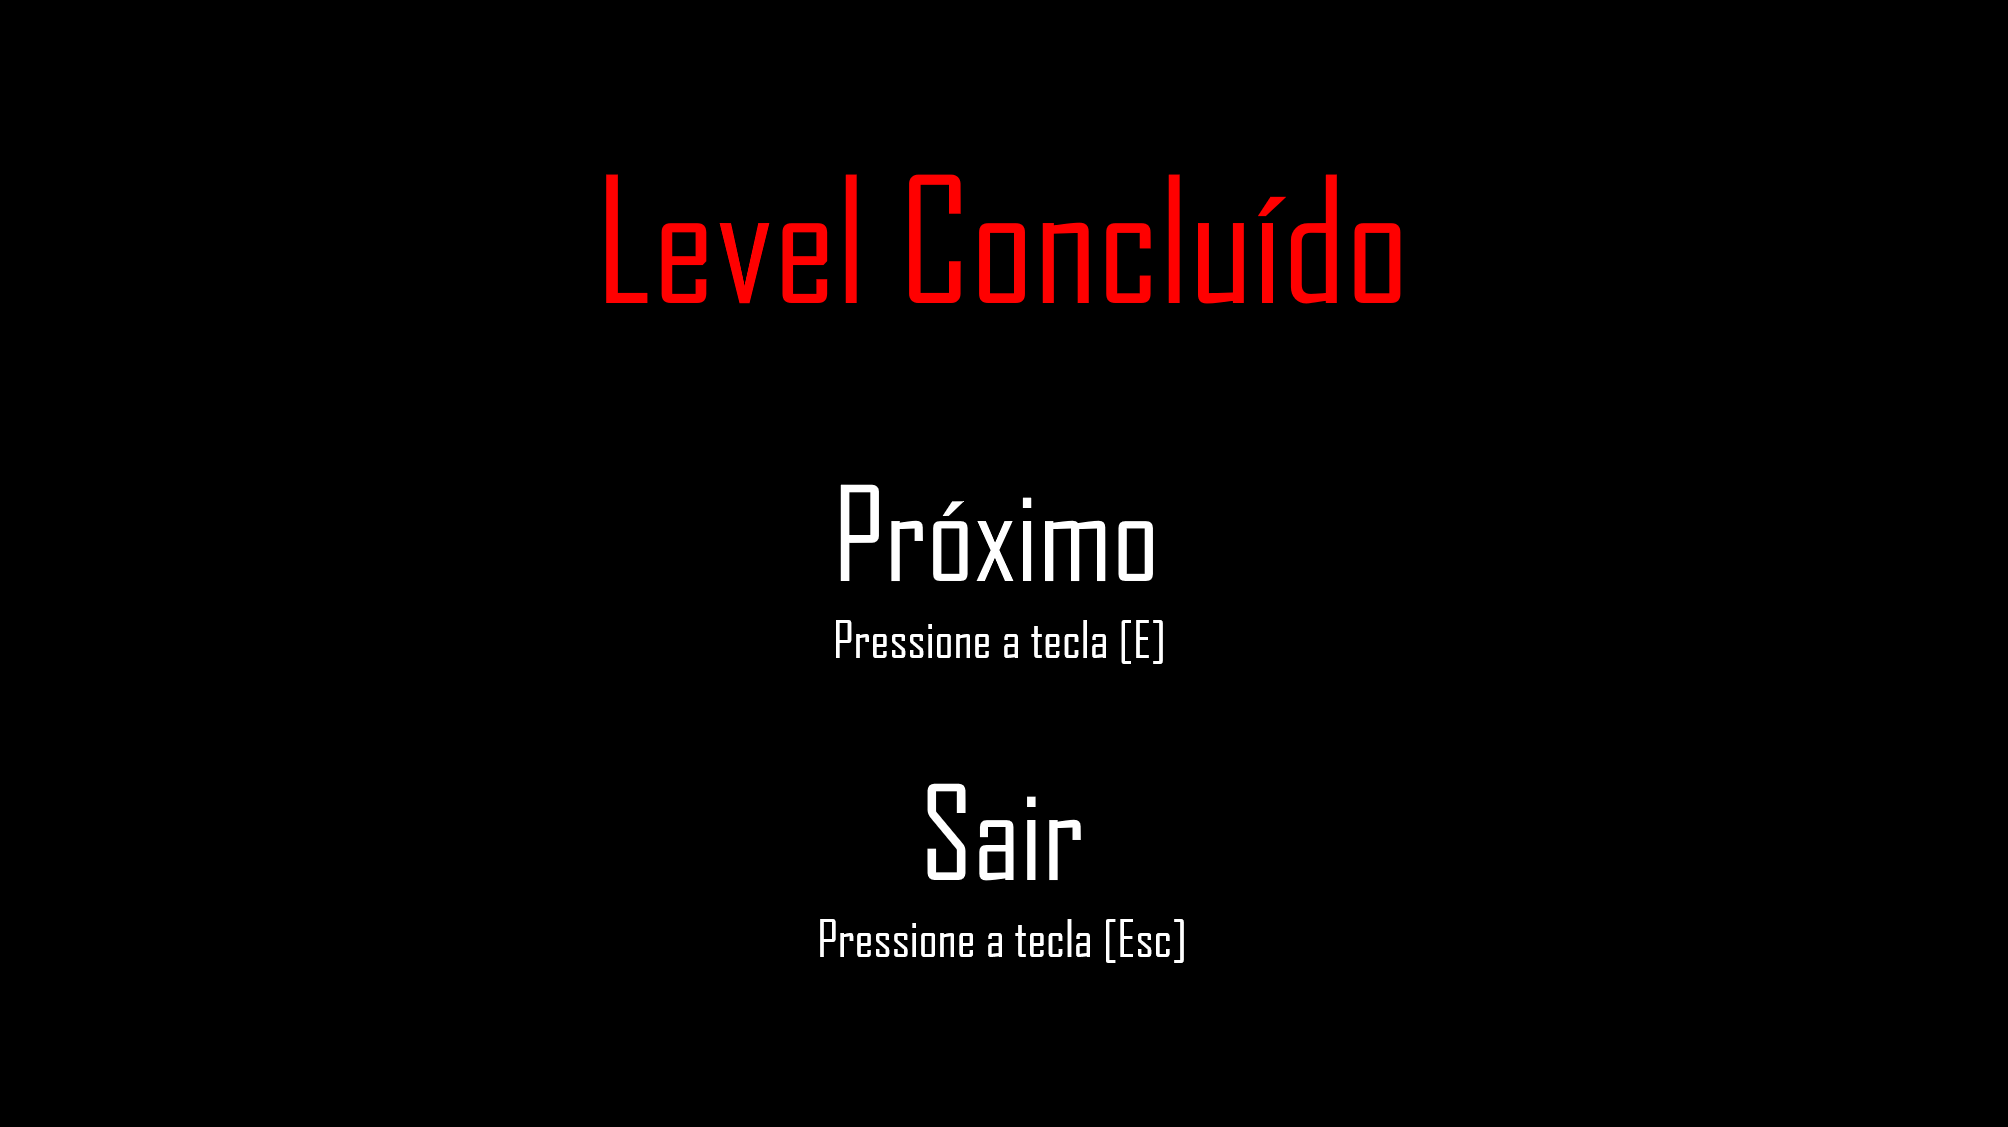
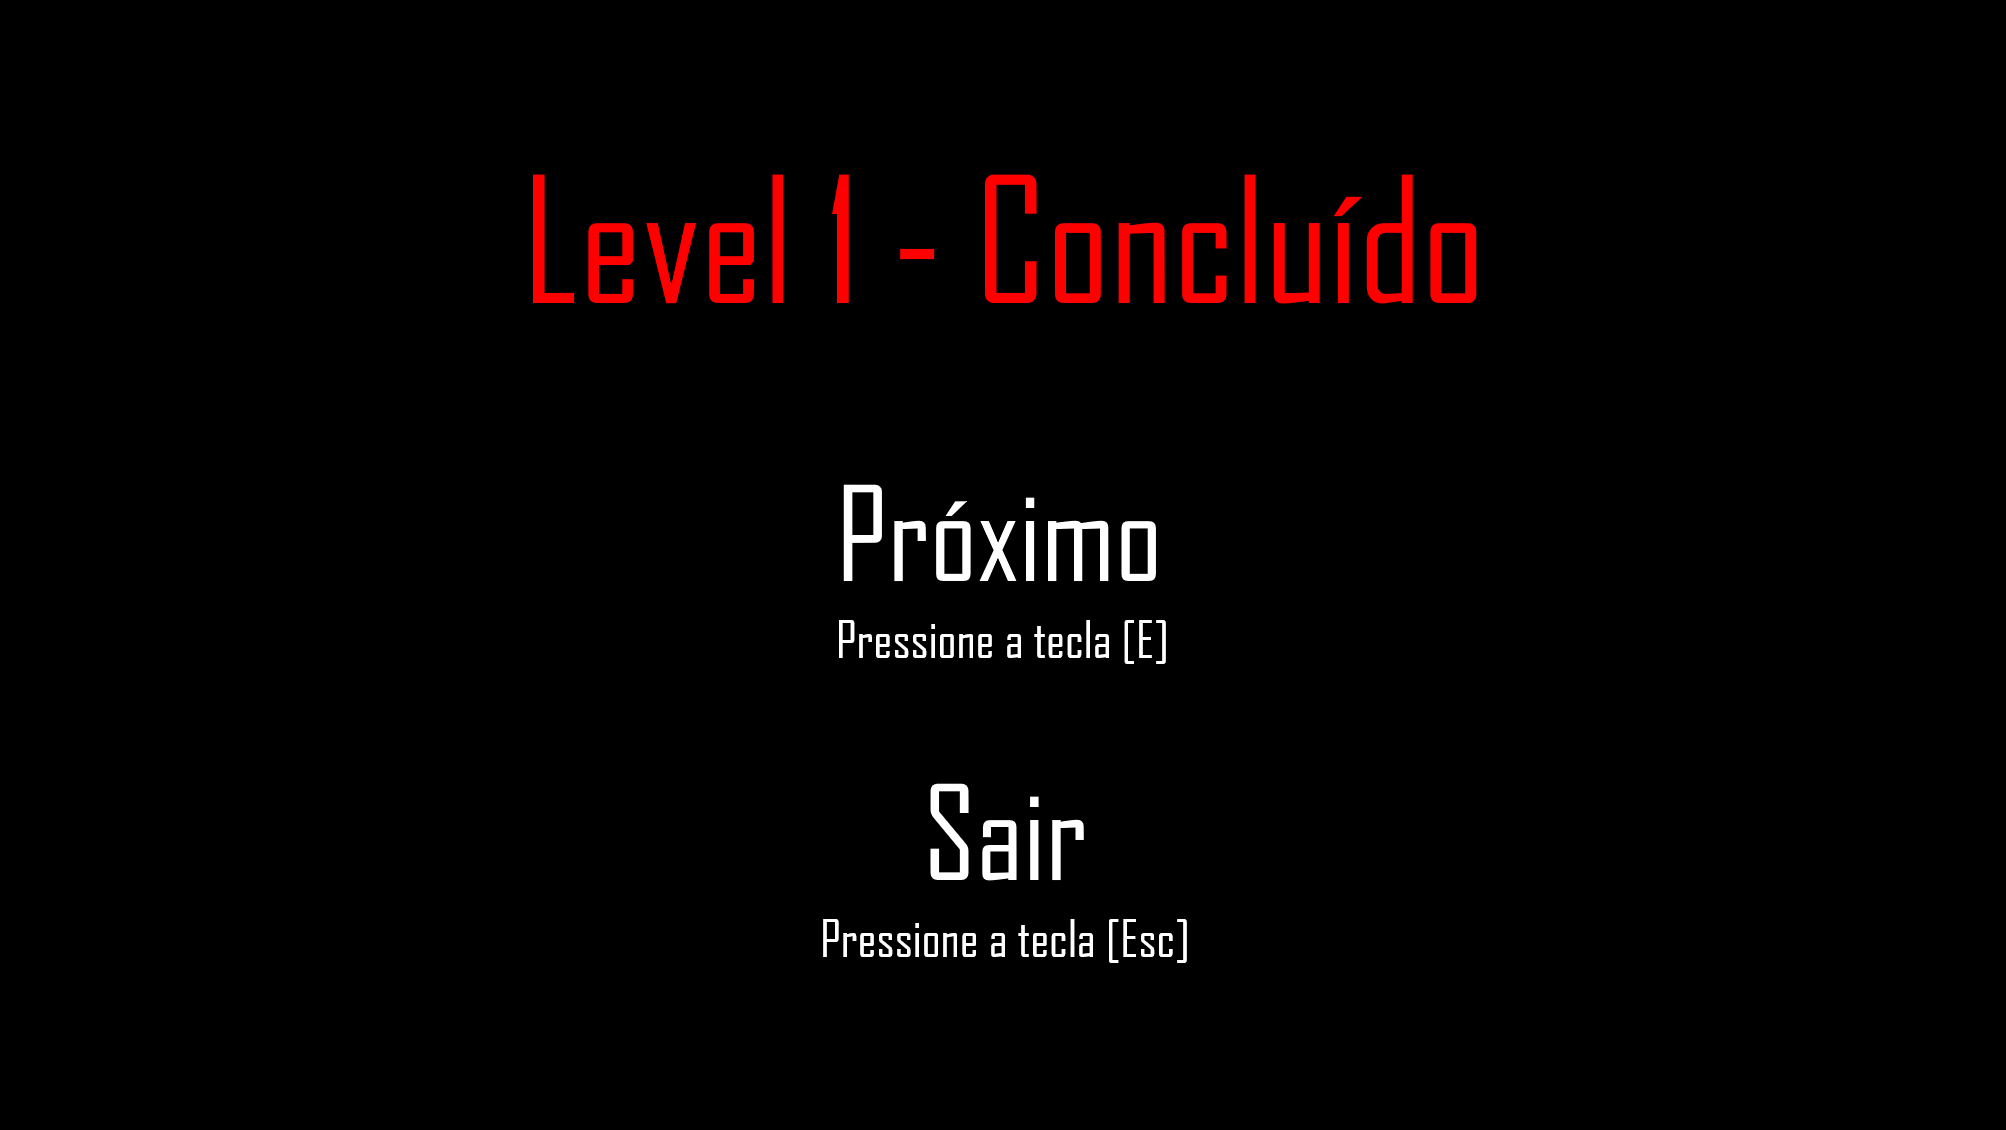
atualizando tela de transicao e codigo

diff --git a/jogo/assets.py b/jogo/assets.py
@@ -30,7 +30,7 @@ def load_assets():
     #Background lvl3
     assets['image_backgroud_3'] = pygame.image.load('assets/img/fundo 3.jpg').convert()
     #Backgroud tela de transição 1
-    assets['image_tela_transicao1'] = pygame.image.load('assets/img/Tela transiçã 1.png').convert()
+    assets['image_tela_transicao1'] = pygame.image.load('assets/img/Tela transição 1.png').convert()
     #Backgroud tela de transição 2
     assets['image_tela_transicao2'] = pygame.image.load('assets/img/Tela transição 2.png').convert()
     #Backgroud tela game over
